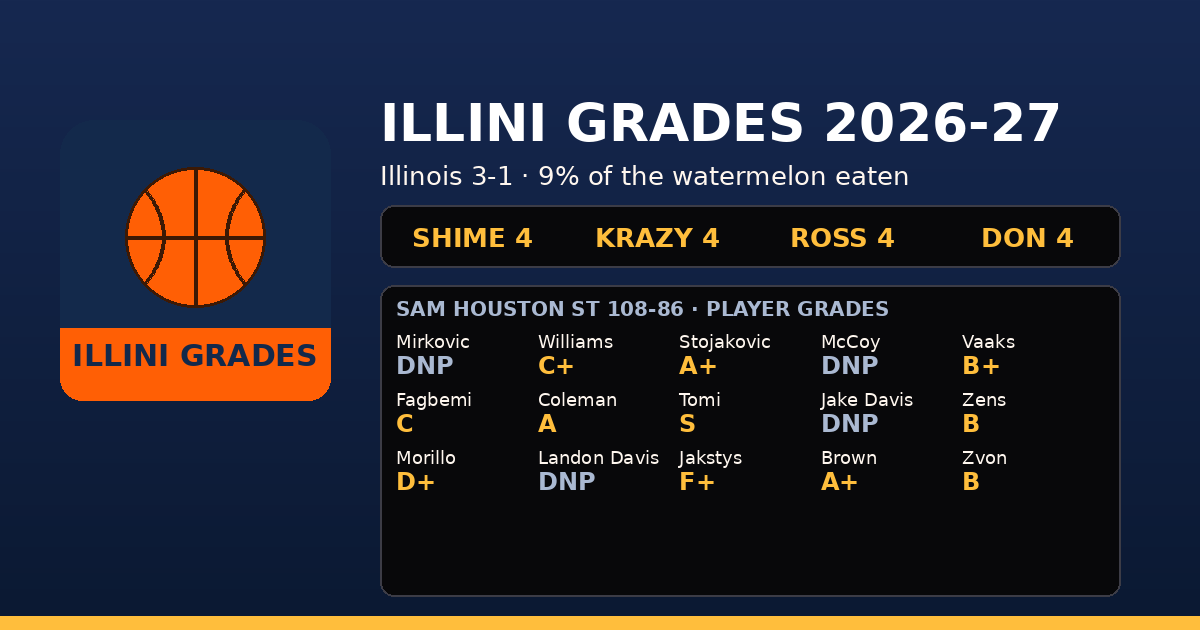
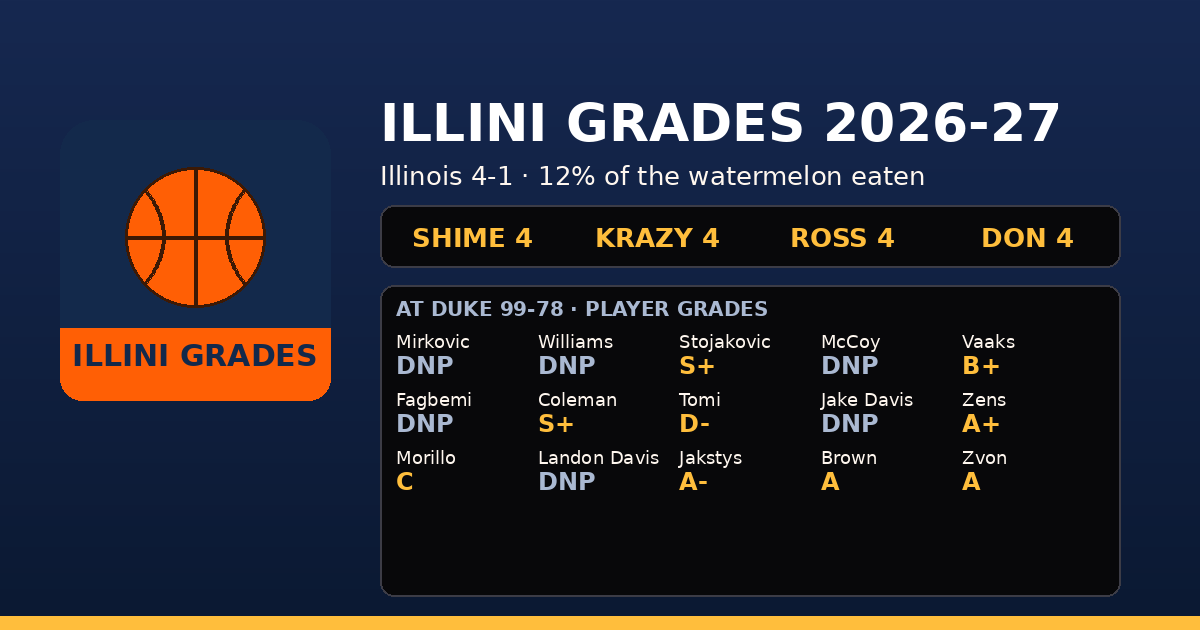
Rebuild preview card for game 5
Claude-Session: https://claude.ai/code/session_01Aj8Udp5BAQnHTrSf8e619t

diff --git a/index.html b/index.html
@@ -11,7 +11,7 @@
   <meta property="og:url" content="https://kshime3.github.io/Illini-Grades/">
   <meta property="og:title" content="Illini Grades: who's winning the Illini predictions?">
   <meta property="og:description" content="Predictions, grades, and one very mysterious watermelon. Who's winning?">
-  <meta property="og:image" content="https://kshime3.github.io/Illini-Grades/img/og-card.png?v=8">
+  <meta property="og:image" content="https://kshime3.github.io/Illini-Grades/img/og-card.png?v=5">
   <meta property="og:image:width" content="1200">
   <meta property="og:image:height" content="630">
   <meta name="twitter:card" content="summary_large_image">
